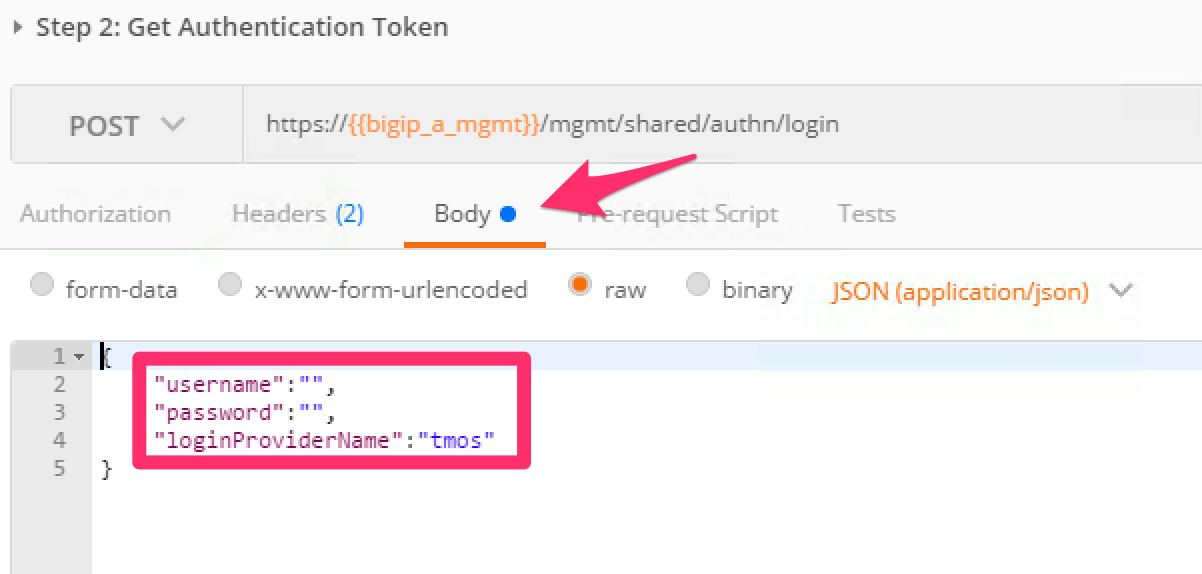
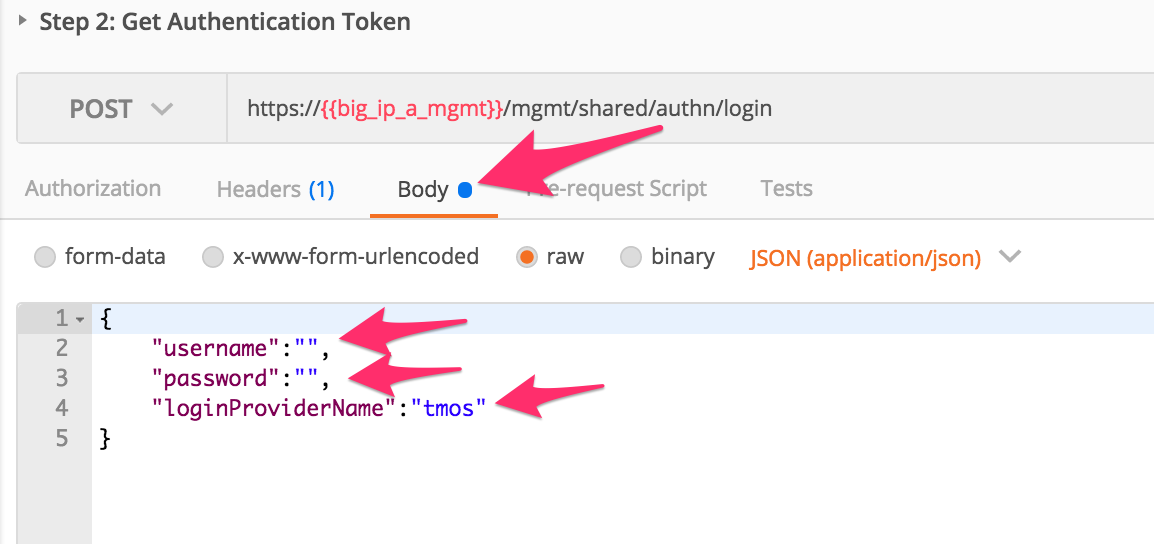
Merge changes from PR #11 to 2.0 branch

diff --git a/docs/module1/lab2.rst b/docs/module1/lab2.rst
@@ -128,9 +128,8 @@ Perform the following steps to complete this task:
 #. Click the ‘Step 2: Get Authentication Token’ item in the Lab 1.2
    Postman Collection
 
-#. Notice that we send a POST request to the
-   ``/mgmt/shared/authn/login`` endpoint. Additionally, BASIC
-   Authentication is required on the initial token request:
+#. Notice that we send a POST request to the ``/mgmt/shared/authn/login``
+   endpoint.
 
    |image13|
 
